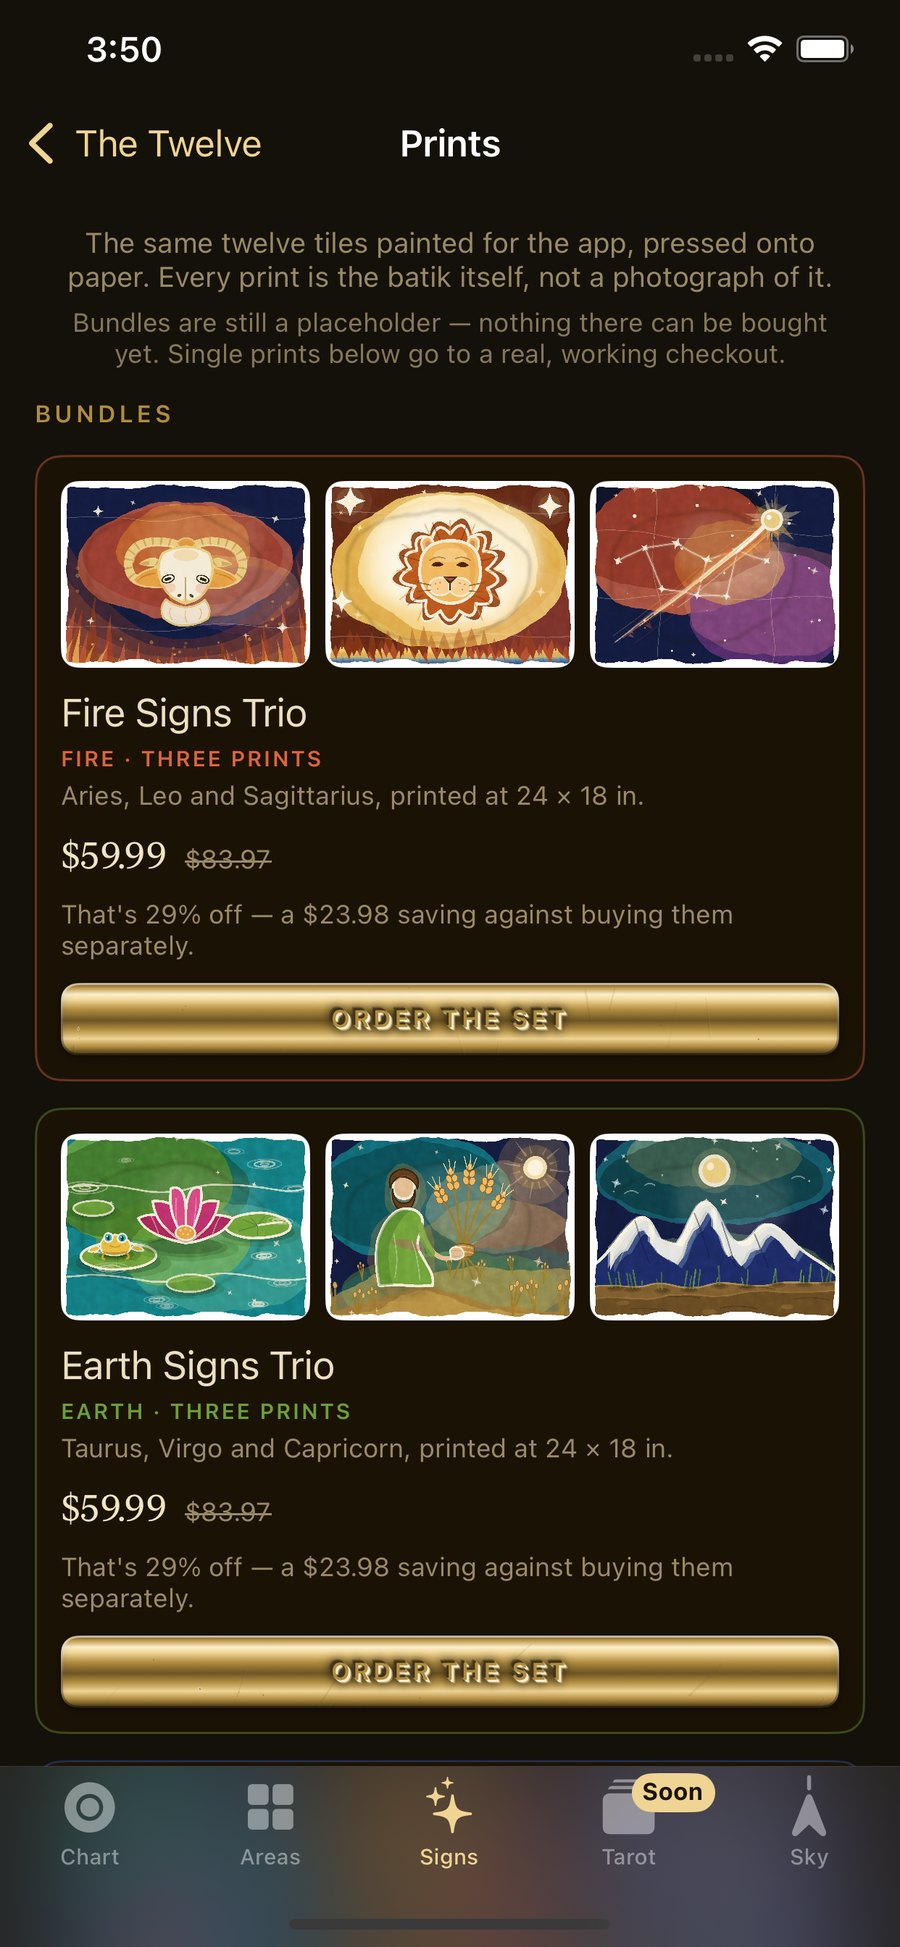
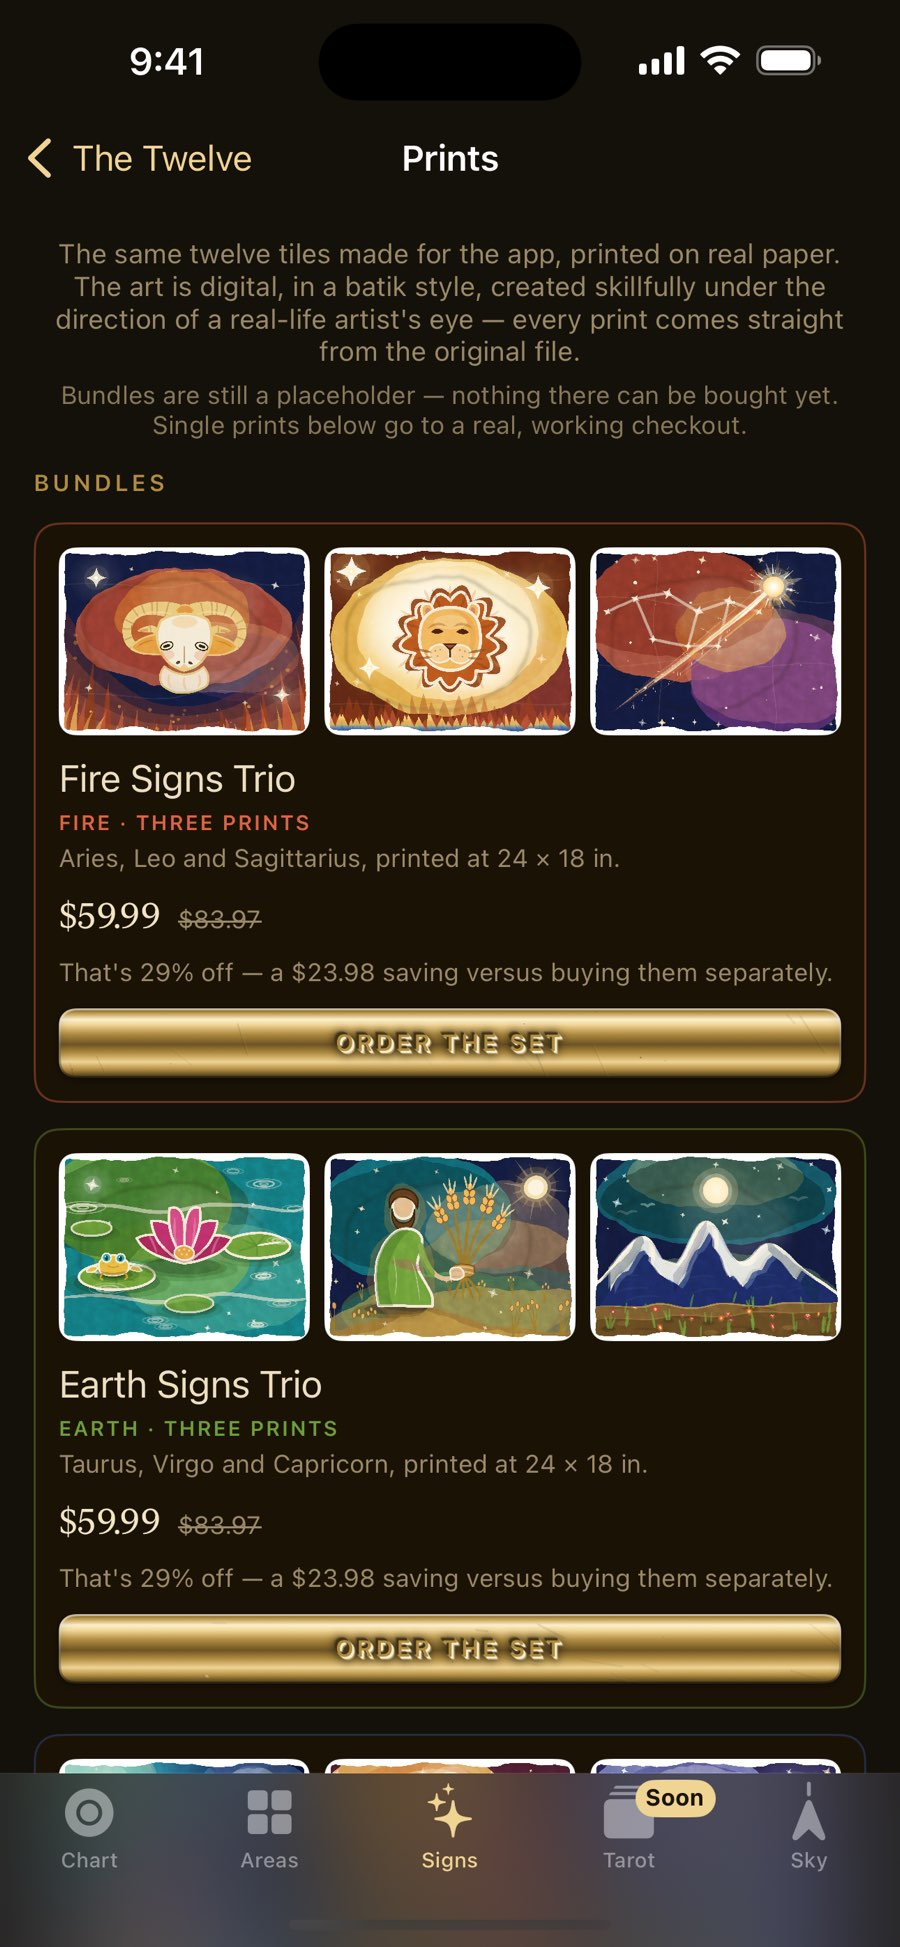
Sync copy and screenshots from Astrolabe-App's working copy
This repo had drifted from the one where the marketing site is actually
edited (Studio-New-Moon/Astrolabe-App, Website/) — 101 lines of copy,
including language that no longer overstated the art as physical or
hand-painted, and five of six screenshots reflecting a redrawn set of
sign tiles, had never made it here.

Brings over index.html, the App Store badge assets (still gated behind
the same dormant Coming Soon pill it already was on both sides), and
every screenshot except 03-life-areas, which was already identical.

diff --git a/index.html b/index.html
@@ -4,7 +4,7 @@
 <meta charset="utf-8">
 <meta name="viewport" content="width=device-width, initial-scale=1">
 <title>Astrolabe — An Ancient Instrument, Now on Your Phone</title>
-<meta name="description" content="Astrology, cast in metal. Cast your real birth chart on a working brass instrument that does real astronomical math, read the sky as it actually is, and explore twelve zodiac signs painted in batik, each one art-directed by a professional illustrator.">
+<meta name="description" content="Astrology, cast in metal. Cast your real birth chart on a working brass instrument that does real astronomical math, read the sky as it actually is, and explore twelve zodiac signs illustrated in a batik style, each one created skillfully under the direction of a real-life artist's eye.">
 <link rel="icon" href="assets/favicon.png">
 <link rel="preconnect" href="https://fonts.googleapis.com">
 <link rel="preconnect" href="https://fonts.gstatic.com" crossorigin>
@@ -113,7 +113,34 @@
   }
   .badge .dot{width:6px;height:6px;border-radius:50%;background:var(--brass-bright);
     box-shadow:0 0 8px var(--brass-bright);}
-  .hero-note{font-family:'JetBrains Mono',monospace;font-size:12px;color:var(--muted);}
+  .hero-note{font-family:'JetBrains Mono',monospace;font-size:12px;color:var(--muted);
+    max-width:36ch;text-wrap:balance;}
+
+  /* ---------- App Store call to action ---------- */
+  /* Both states are in the markup at once — the pre-launch pill and the
+     real badge — and `body.prelaunch` decides which one is shown, so
+     release day is one word deleted rather than a rewrite. */
+  body.prelaunch .cta-live{display:none;}
+  body:not(.prelaunch) .cta-soon{display:none;}
+
+  .store-link{
+    display:inline-block;
+    /* Apple asks for clear space around the badge of at least a tenth of
+       its height on every side. That is what this padding is — nothing
+       may be moved into it. */
+    padding:6px;
+    border-radius:12px;
+    transition:transform .2s ease, filter .2s ease;
+  }
+  .store-link:hover{transform:translateY(-2px);filter:brightness(1.06);}
+  .store-link:focus-visible{outline:2px solid var(--brass-bright);outline-offset:3px;}
+  /* Sized by height only, so the artwork keeps Apple's proportions. 54px
+     clears their 40px web minimum with room to spare. */
+  .store-badge{height:54px;width:auto;}
+
+  .pricing .cta{
+    margin-top:44px;display:flex;flex-direction:column;align-items:center;gap:12px;
+  }
 
   /* ---------- Feature sections ---------- */
   .feature{padding:104px 0;border-bottom:1px solid var(--panel-line);}
@@ -233,7 +260,21 @@
   }
 </style>
 </head>
-<body>
+<body class="prelaunch">
+
+<!-- ============================================================
+     ON RELEASE DAY, TWO EDITS:
+
+       1. Delete  class="prelaunch"  from the <body> tag above.
+       2. Replace both occurrences of  idAPPLE_ID  with the real
+          Apple ID, e.g.  id6740000000 . It is in App Store Connect
+          under the app's General > App Information, labelled
+          "Apple ID" — a ten-digit number, not the bundle ID.
+
+     Doing only the first is caught: the script at the bottom of the
+     page puts the "Coming Soon" pill back rather than shipping a
+     link to nowhere.
+     ============================================================ -->
 
 <header class="nav">
   <div class="nav-inner">
@@ -257,8 +298,12 @@
     <img class="hero-mark" src="assets/wordmark-hero.png" alt="ASTROLABE" width="670" height="138">
     <p class="subtitle">Astrology, Cast in Metal</p>
     <div class="hero-cta">
-      <span class="badge"><span class="dot"></span> Coming Soon to the App Store</span>
-      <span class="hero-note">iPhone &amp; iPad</span>
+      <span class="badge cta-soon"><span class="dot"></span> Coming Soon to the App Store</span>
+      <a class="store-link cta-live" href="https://apps.apple.com/app/follow-my-astrolabe/idAPPLE_ID">
+        <img class="store-badge" src="assets/app-store-badge.svg" alt="Download on the App Store"
+             width="162" height="54">
+      </a>
+      <span class="hero-note">iPhone &amp; iPad &middot; Free, with an optional subscription</span>
     </div>
   </div>
 </section>
@@ -295,7 +340,7 @@
       <h2>Your Sign and the Real Sky Are Not the Same Thing.</h2>
       <p>Hold your phone up and the instrument follows the sky above you — your zodiac sign shown next to the actual constellation in that direction, because they are not the same thing, and this app is honest about the difference.</p>
     </div>
-    <div class="shot"><img src="assets/screenshots/07-sky.jpg" alt="The Sky Pointing screen, comparing a zodiac sign to the real constellation overhead" loading="lazy"></div>
+    <div class="shot"><img src="assets/screenshots/07-sky.jpg" alt="The Sky Navigator screen, comparing a zodiac sign to the real constellation overhead" loading="lazy"></div>
   </div>
 </section>
 
@@ -308,13 +353,13 @@
 
 <section class="gallery" id="signs">
   <div class="gallery-head">
-    <span class="eyebrow">Twelve Signs, Painted in Batik</span>
-    <h2>Dye Bled Into Cloth, Held by a Pale Wax-Resist Line.</h2>
-    <p>Every sign rendered in a warm, wax-resist batik style — generated under the close, wash-by-wash direction of a professional illustrator, not left to run on its own. Worth exploring on their own, and available as real prints on real paper.</p>
+    <span class="eyebrow">Twelve Signs, in a Batik Style</span>
+    <h2>The Look of Dye in Cloth, Held by a Pale Wax-Resist Line.</h2>
+    <p>Every sign rendered in a warm, wax-resist batik style — digital art, created skillfully under the close, wash-by-wash direction of a real-life artist's eye, not left to run on its own. Worth exploring on their own, and available as real prints on real paper.</p>
   </div>
   <div class="strip">
-    <div class="shot"><img src="assets/screenshots/06-signs.jpg" alt="The gallery of twelve batik-illustrated zodiac signs" loading="lazy"></div>
-    <div class="shot"><img src="assets/screenshots/08-prints.jpg" alt="Ordering a real print of a sign's batik illustration" loading="lazy"></div>
+    <div class="shot"><img src="assets/screenshots/06-signs.jpg" alt="The gallery of twelve zodiac signs illustrated in a batik style" loading="lazy"></div>
+    <div class="shot"><img src="assets/screenshots/08-prints.jpg" alt="Ordering a real print of a sign's batik-style illustration" loading="lazy"></div>
     <div class="shot"><img src="assets/screenshots/02-chart-instrument.jpg" alt="The birth chart instrument, showing planetary placements and the four angles" loading="lazy"></div>
   </div>
 </section>
@@ -338,6 +383,13 @@
         <div class="price">$58.99<sub>/yr</sub></div>
         <div class="desc">Billed annually, cancel anytime.</div>
       </div>
+    </div>
+    <div class="cta">
+      <span class="badge cta-soon"><span class="dot"></span> Coming Soon to the App Store</span>
+      <a class="store-link cta-live" href="https://apps.apple.com/app/follow-my-astrolabe/idAPPLE_ID">
+        <img class="store-badge" src="assets/app-store-badge.svg" alt="Download on the App Store"
+             width="162" height="54">
+      </a>
     </div>
     <p class="fine">Auto-renewable subscription. Cancel anytime in your device's Settings. See our <a href="/privacy/">Privacy Policy</a> for details on what stays on your device.</p>
   </div>
@@ -392,6 +444,16 @@
       html += '<span style="left:' + x + '%;top:' + y + '%;width:' + s + 'px;height:' + s + 'px;opacity:' + o + '"></span>';
     }
     field.innerHTML = html;
+  })();
+
+  // Release-day safety net. If the page has been switched live but the
+  // Apple ID placeholder is still sitting in the link, fall back to the
+  // "Coming Soon" pill rather than sending anyone to a dead App Store URL.
+  (function () {
+    var link = document.querySelector('a.store-link');
+    if (link && link.getAttribute('href').indexOf('APPLE_ID') !== -1) {
+      document.body.classList.add('prelaunch');
+    }
   })();
 </script>
 
